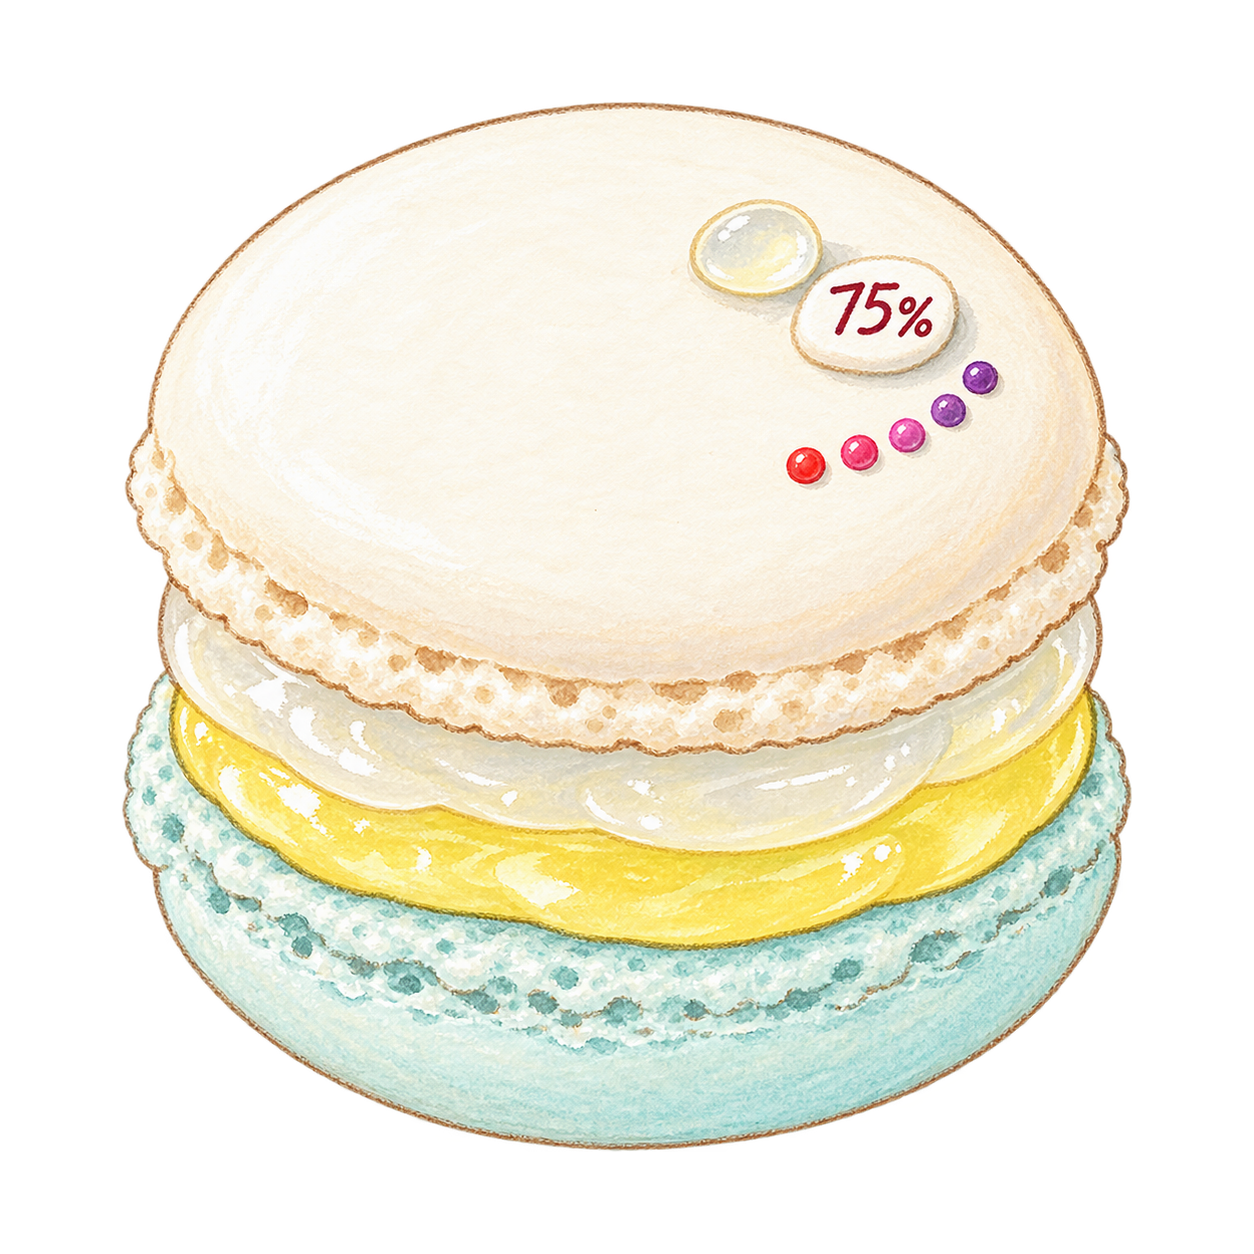
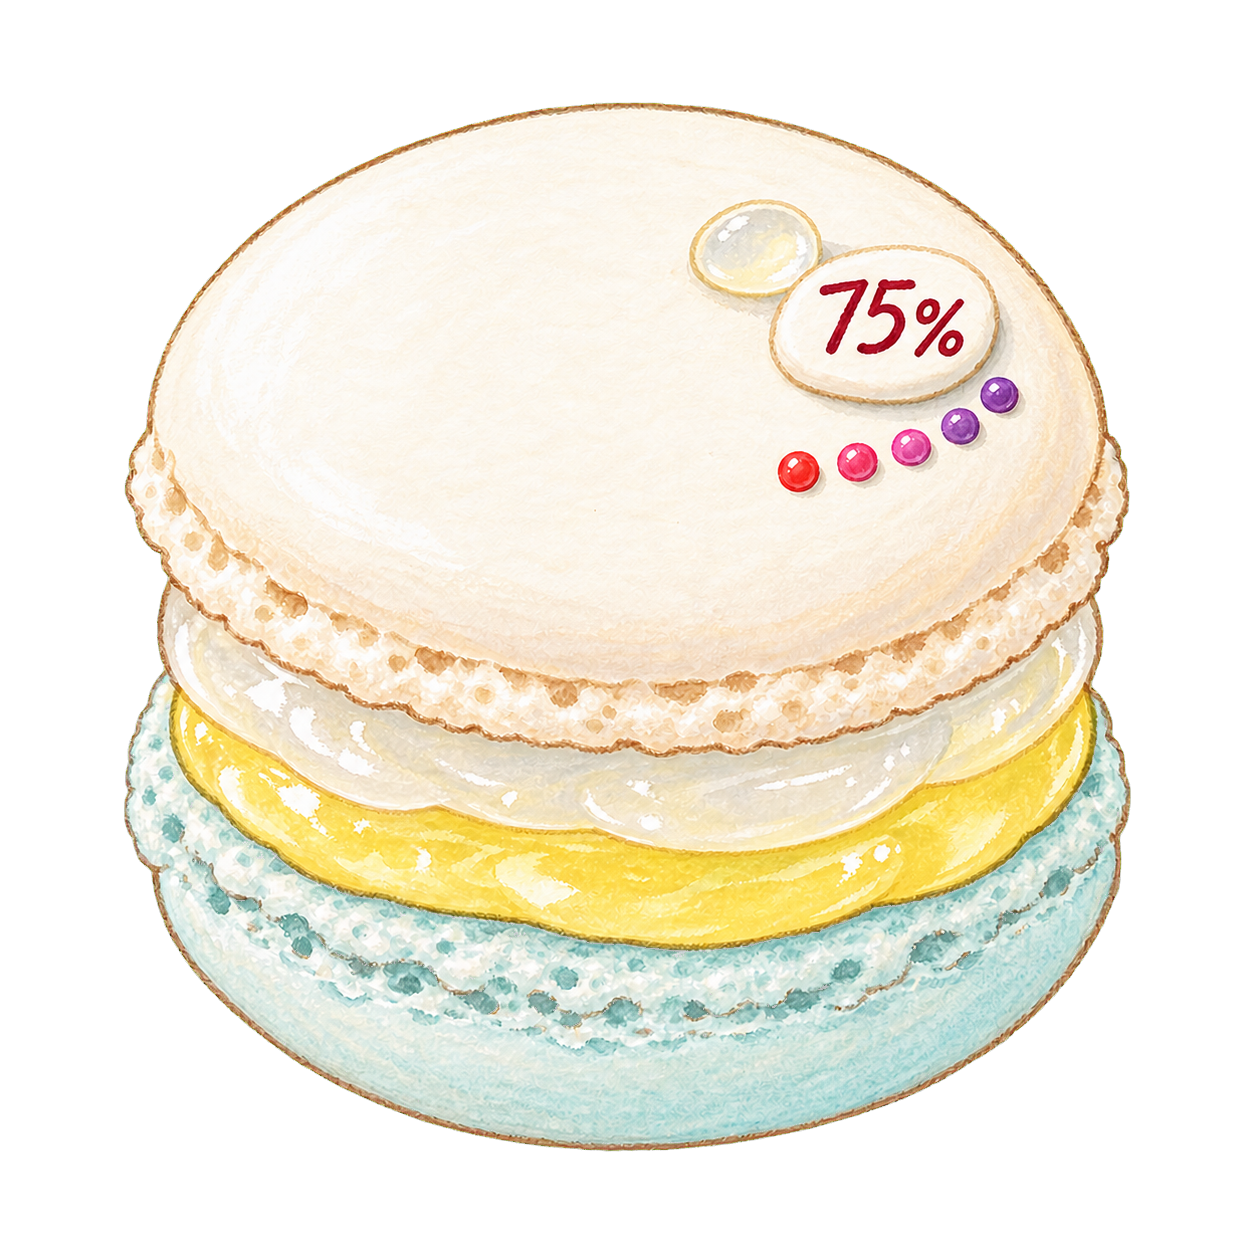
Refine 75% macaron plaque size

diff --git a/docs/macaron-visual-system.md b/docs/macaron-visual-system.md
@@ -113,7 +113,7 @@
 #### 75 Alchohol — 白葡萄・檸檬蘇打
 
 - 白色上殼、淡水藍下殼；透明白葡萄果膠與淡黃檸檬奶霜形成兩種可見比例。
-- `75%` 小糖牌與透明糖滴構成單一計算提示；刻度不固定成來源濃度無法支持的比例。
+- `75%` 糖牌與透明糖滴構成單一計算提示；糖牌的視覺量感約為 Hiragana `あ` 裝飾的 50–60%，確保縮成小圖時仍可辨認，但不可搶過主體；刻度不固定成來源濃度無法支持的比例。
 - 不使用醫療紅十字或實驗室器材堆疊。
 
 #### 50 Hiragana Test — 櫻花牛奶・紅豆
